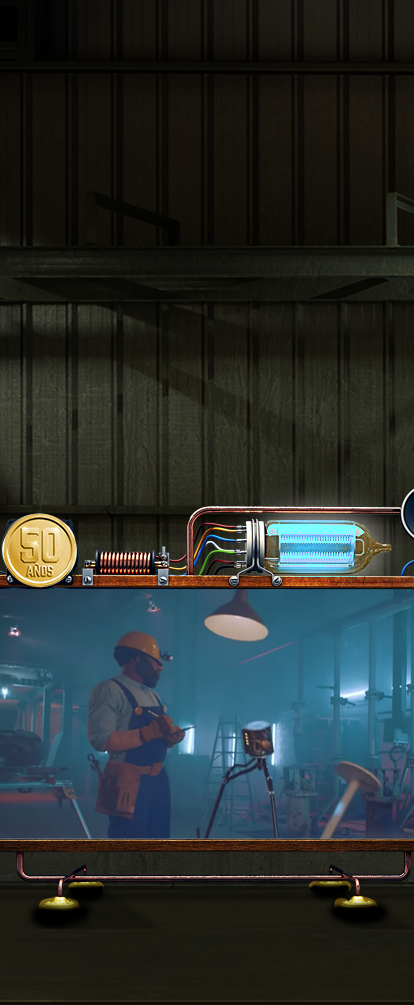
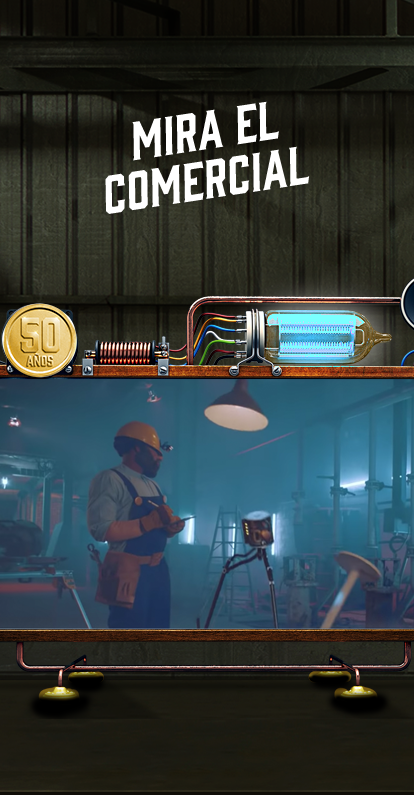
Fix

diff --git a/css/responsive.css b/css/responsive.css
@@ -138,7 +138,7 @@
         height: 100%;
         width: 100%;
         margin-bottom: 0px;
-        display: none !important;
+        /* display: none !important; */
         /* padding-bottom: 30px; */
         background-size: contain;
     }
@@ -157,8 +157,8 @@
         align-items: center;
     }
     #play-com {
-        top: 38%;
-        display: none;
+        top: 60%;
+        /* display: none; */
     }
     .play-video {
         top: 40%;

diff --git a/index.html b/index.html
@@ -182,7 +182,7 @@
             <img src="img/bases_text.png " id="show-bases" class="bases-mod " alt=" ">
         </div>
     </section>
-    <!-- <div class="section "></div> -->
+    <div class="section "></div>
     <!-- corte comercial -->
 
     <div id="modal-comercial" class="demo-modal">
